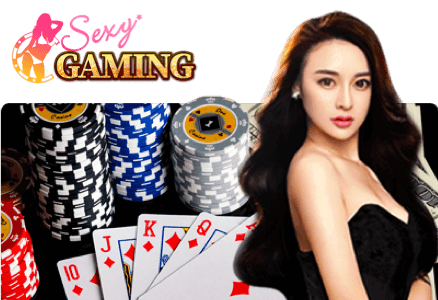
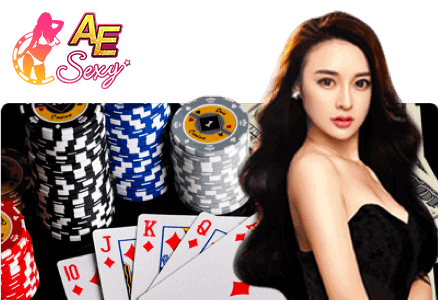
^update
1. Fishing Add "JILI" 4 Games
2. Live Casino Add "Simpleplay"
3. Slots Add "JILI"、"MAJA"

Changed region(s): [[0.0297, 0.03, 0.4749, 0.3], [0.089, 0.03, 0.1187, 0.06]]

diff --git a/pages/fishing.vue b/pages/fishing.vue
@@ -1,41 +1,60 @@
 <template>
     <main class="fishing-wrapper">
-        <!-- Carousel -->
-        <my-carousel />
+        <!-- Carousel
+        <my-carousel />-->
 
-        <!-- Announcement -->
-        <my-announcement />
+        <!-- Announcement
+        <my-announcement />-->
+        <img src="/images/fishing/banner.jpg" />
 
         <!-- Game Types Of Tab => "Live Casino"、"Sports"、"Slots"、"Lottery"、"Finishing" -->
         <my-game-tab />
 
-        <!-- Games -->
-        <ul class="fishing-container">
-            <li class="fishing-item-wrapper">
-                <div class="fishing-item-container">
-                    <span class="fishing-item-name">Fishing God</span>
-                    <span class="fishing-item-msg">{{ $t('fishing.fg_msg') }}</span>
-                    <button class="fishing-play-now-btn" type="button" @click="openGame(421, 'fg')">{{ $t('common.play_now') }}</button>
-                </div>
-                <img class="fishing-img" src="/images/fishing/fg.png" />
-            </li>
-            <li class="fishing-item-wrapper">
-                <img class="fishing-img" src="/images/fishing/lofj.png" />
-                <div class="fishing-item-container">
-                    <span class="fishing-item-name">League Of Fishing Joy</span>
-                    <span class="fishing-item-msg">{{ $t('fishing.fj_msg') }}</span>
-                    <button class="fishing-play-now-btn" type="button" @click="openGame(1774, 'fj')">{{ $t('common.play_now') }}</button>
-                </div>
-            </li>
-            <li class="fishing-item-wrapper">
-                <div class="fishing-item-container">
-                    <span class="fishing-item-name">League Of Bird Hunting</span>
-                    <span class="fishing-item-msg">{{ $t('fishing.bh_msg') }}</span>
-                    <button class="fishing-play-now-btn" type="button" @click="openGame(1773, 'bh')">{{ $t('common.play_now') }}</button>
-                </div>
-                <img class="fishing-img" src="/images/fishing/lobh.png" />
-            </li>
-        </ul>
+        <!-- Content -->
+        <div class="fishing-container">
+            <ul>
+                <!-- Bombing Fishing -->
+                <li @click="openGame('', 'bf')">
+                    <img src="/images/fishing/bf.png" alt="Bombing Fishing" />
+                    <button type="bytton">{{ $t('common.play_now') }}</button>
+                </li>
+                <!-- Jackpot Fishing -->
+                <li @click="openGame('', 'jf')">
+                    <img src="/images/fishing/jf.png" alt="Jackpot Fishing" />
+                    <button type="bytton">{{ $t('common.play_now') }}</button>
+                </li>
+                <!-- League Of Bird Hunting -->
+                <li @click="openGame(1773, 'bh')">
+                    <img src="/images/fishing/lobh.png" alt="League Of Bird Hunting" />
+                    <button type="bytton">{{ $t('common.play_now') }}</button>
+                </li>
+                <!-- Dragon Assault Be A Dragon King -->
+                <li @click="openGame('', 'badk')">
+                    <img src="/images/fishing/badk.png" alt="Dragon Assault Be A Dragon King" />
+                    <button type="bytton">{{ $t('common.play_now') }}</button>
+                </li>
+                <!-- Chain Long Fishing -->
+                <li @click="openGame('', 'clf')">
+                    <img src="/images/fishing/clf.png" alt="Chain Long Fishing" />
+                    <button type="bytton">{{ $t('common.play_now') }}</button>
+                </li>
+                <!-- Fishing God -->
+                <li @click="openGame(421, 'fg')">
+                    <img src="/images/fishing/fg.png" alt="Fishing God" />
+                    <button type="bytton">{{ $t('common.play_now') }}</button>
+                </li>
+                <!-- League Of Fishing Joy -->
+                <li @click="openGame(1774, 'fj')">
+                    <img src="/images/fishing/lofj.png" alt="League Of Fishing Joy" />
+                    <button type="bytton">{{ $t('common.play_now') }}</button>
+                </li>
+                <!-- Fishermen Gold -->
+                <li @click="openGame('', 'fmg')">
+                    <img src="/images/fishing/fmg.png" alt="Fishermen Gold" />
+                    <button type="bytton">{{ $t('common.play_now') }}</button>
+                </li>
+            </ul>
+        </div>
     </main>
 </template>
 <script>
@@ -66,14 +85,16 @@ export default {
         // Open Fishing Games
         openGame(gameID, productCode) {
             if (this.isLogined) {
-                this.$store.dispatch('game/getGameURL', {
-                    category: 'Fishing',
-                    productCode,
-                    gameID,
-                    is_mobile: 1
-                }).then(() => {
-                    window.open(this.gameURL);
-                });
+                this.$store
+                    .dispatch('game/getGameURL', {
+                        category: 'Fishing',
+                        productCode,
+                        gameID,
+                        is_mobile: 1
+                    })
+                    .then(() => {
+                        window.open(this.gameURL);
+                    });
             } else {
                 this.$router.push(this.$i18n.path('login'));
             }
@@ -88,59 +109,42 @@ export default {
         font-size: 12px;
         font-family: $font-family;
 
+        > img {
+            width: 100%;
+        }
+
         .fishing-container {
-            display: flex;
-            flex-direction: column;
             width: 100%;
             min-height: 62vh;
-            background: $background_img;
+            background: url('../static/images/fishing/bg.jpg');
             background-size: cover;
             padding-bottom: 70px;
 
-            .fishing-item-wrapper {
+            > ul {
                 display: flex;
+                flex-wrap: wrap;
                 width: 100%;
-                min-height: 165px;
+                height: 100%;
+                padding: 10px 10px 0 10px;
 
-                .fishing-img {
-                    width: 57%;
-                    align-self: center;
-                }
-
-                .fishing-item-container {
+                > li {
                     display: flex;
                     flex-direction: column;
-                    justify-content: center;
-                    margin: 2% 2% 2% 4%;
+                    align-items: center;
+                    width: 50%;
+                    margin-bottom: 5%;
 
-                    .fishing-item-name {
-                        font-size: 16px;
-                        font-weight: bold;
-                        margin-bottom: 5px;
+                    > img {
+                        width: 100%;
                     }
 
-                    .fishing-item-msg {
-                        color: #575757;
-                        height: 100%;
+                    > button {
+                        width: 54%;
+                        background: linear-gradient(to bottom, #f6c200, #ce5700);
+                        border-radius: 0 0 20px 20px;
+                        padding: 2px 0;
+                        margin-top: -15%;
                     }
-
-                    .fishing-play-now-btn {
-                        width: 95px;
-                        min-height: 35px;
-                        font-weight: bold;
-                        border: $border-style;
-                        border-radius: 5px;
-                        background: $color-yellow-linear-unpress;
-                        margin-top: 10px;
-
-                        &:active {
-                            background: $color-yellow-linear;
-                        }
-                    }
-                }
-
-                &:nth-child(odd) {
-                    background: rgba(0, 0, 0, 0.1);
                 }
             }
         }

diff --git a/pages/slots/index.vue b/pages/slots/index.vue
@@ -12,14 +12,14 @@
         <!-- Games -->
         <div class="slots-container">
             <ul class="slots-games-list">
-                <!-- CQ9 -->
-                <li class="slots-game-wrapper" id="cq9">
-                    <nuxt-link class="slots-game-container" :to="$i18n.path('slots/cq9')">
+                <!-- Yggdrasil -->
+                <li class="slots-game-wrapper" id="ygg">
+                    <nuxt-link class="slots-game-container" :to="$i18n.path('slots/ygg')">
                         <div class="slots-game-name-wrapper">
-                            <span class="slots-game-name">CQ9</span>
+                            <span class="slots-game-name">YGG</span>
                             <span class="slots-game-type">SLOTS</span>
                         </div>
-                        <img class="slots-game-img" src="/images/slots/cq9.png" />
+                        <img class="slots-game-img" src="/images/slots/ygg.png" />
                     </nuxt-link>
                 </li>
                 <!-- Spadegaming -->
@@ -32,14 +32,14 @@
                         <img class="slots-game-img" src="/images/slots/spg.png" />
                     </nuxt-link>
                 </li>
-                <!-- BESTSOFT -->
-                <li class="slots-game-wrapper" id="bsg">
-                    <nuxt-link class="slots-game-container" :to="$i18n.path('slots/bsg')">
+                <!-- JILI -->
+                <li class="slots-game-wrapper" id="jili">
+                    <nuxt-link class="slots-game-container" :to="$i18n.path('slots/jili')">
                         <div class="slots-game-name-wrapper">
-                            <span class="slots-game-name">BSG</span>
+                            <span class="slots-game-name">JILI</span>
                             <span class="slots-game-type">SLOTS</span>
                         </div>
-                        <img class="slots-game-img" src="/images/slots/bsg.png" />
+                        <img class="slots-game-img" src="/images/slots/jili.png" />
                     </nuxt-link>
                 </li>
                 <!-- Booongo -->
@@ -72,14 +72,14 @@
                         <img class="slots-game-img" src="/images/slots/gpi.png" />
                     </nuxt-link>
                 </li>
-                <!-- Yggdrasil -->
-                <li class="slots-game-wrapper" id="ygg">
-                    <nuxt-link class="slots-game-container" :to="$i18n.path('slots/ygg')">
+                <!-- CQ9 -->
+                <li class="slots-game-wrapper" id="cq9">
+                    <nuxt-link class="slots-game-container" :to="$i18n.path('slots/cq9')">
                         <div class="slots-game-name-wrapper">
-                            <span class="slots-game-name">YGG</span>
+                            <span class="slots-game-name">CQ9</span>
                             <span class="slots-game-type">SLOTS</span>
                         </div>
-                        <img class="slots-game-img" src="/images/slots/ygg.png" />
+                        <img class="slots-game-img" src="/images/slots/cq9.png" />
                     </nuxt-link>
                 </li>
                 <!-- Joker -->
@@ -130,6 +130,36 @@
                             <span class="slots-game-type">SLOTS</span>
                         </div>
                         <img class="slots-game-img" src="/images/slots/918kiss.png" />
+                    </nuxt-link>
+                </li>
+                <!-- BESTSOFT -->
+                <li class="slots-game-wrapper" id="bsg">
+                    <nuxt-link class="slots-game-container" :to="$i18n.path('slots/bsg')">
+                        <div class="slots-game-name-wrapper">
+                            <span class="slots-game-name">BSG</span>
+                            <span class="slots-game-type">SLOTS</span>
+                        </div>
+                        <img class="slots-game-img" src="/images/slots/bsg.png" />
+                    </nuxt-link>
+                </li>
+                <!-- Simpleplay -->
+                <li class="slots-game-wrapper" id="sp">
+                    <nuxt-link class="slots-game-container" :to="$i18n.path('slots/sp')">
+                        <div class="slots-game-name-wrapper">
+                            <span class="slots-game-name">SP</span>
+                            <span class="slots-game-type">SLOTS</span>
+                        </div>
+                        <img class="slots-game-img" src="/images/slots/sp.png" />
+                    </nuxt-link>
+                </li>
+                <!-- Maja -->
+                <li class="slots-game-wrapper" id="maja">
+                    <nuxt-link class="slots-game-container" :to="$i18n.path('slots/maja')">
+                        <div class="slots-game-name-wrapper">
+                            <span class="slots-game-name">MAJA</span>
+                            <span class="slots-game-type">SLOTS</span>
+                        </div>
+                        <img class="slots-game-img" src="/images/slots/bsg.png" />
                     </nuxt-link>
                 </li>
             </ul>

diff --git a/pages/livecasino.vue b/pages/livecasino.vue
@@ -60,10 +60,10 @@
                 </div>
             </li>
             <li class="livecasino-item-wrapper">
-                <!-- Sexy Gaming -->
+                <!-- AE Sexy -->
                 <div class="livecasino-item-container">
                     <img class="livecasino-item-img" src="/images/livecasino/gm_sg.png" />
-                    <span class="livecasino-item-name">Sexy Gaming</span>
+                    <span class="livecasino-item-name">AE Sexy</span>
                     <span class="livecasino-item-msg">{{ $t('livecasino.sg_msg') }}</span>
                     <button class="livecasino-play-now-btn" type="button" @click="openGame('sb')">{{ $t('common.play_now') }}</button>
                 </div>
@@ -107,13 +107,15 @@ export default {
         // Open Live Casino Games
         openGame(productCode) {
             if (this.isLogined) {
-                this.$store.dispatch('game/getGameURL', {
-                    category: 'Livecasino',
-                    productCode,
-                    is_mobile: 1
-                }).then(() => {
-                    window.open(this.gameURL);
-                });
+                this.$store
+                    .dispatch('game/getGameURL', {
+                        category: 'Livecasino',
+                        productCode,
+                        is_mobile: 1
+                    })
+                    .then(() => {
+                        window.open(this.gameURL);
+                    });
             } else {
                 this.$router.push({ path: this.$i18n.path('login') });
             }
